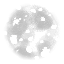
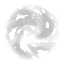
DrawStreetLayer() ritar nu ut i -nya- lagret streetctx. Jag twirlade den ena snöpuffen på skoj, ser ok ut tror jag. :)

diff --git a/carstorm.js b/carstorm.js
@@ -28,8 +28,9 @@ var textScale;
 var screenSaverPaused = false;
 
 // Canvas 2d surface, for drawing on.
-var ctx = null;
-var topctx = null;
+var ctx = null;       // The rotating sliding towards the screen snowstorm.
+var streetctx = null; // The street and car shadows, also sliding along but not rotating.
+var topctx = null;    // Score, cars and stuff.
 
 var r=0;
 var g=0;
@@ -193,21 +194,24 @@ function init()
     
   // Fetch the html element with the id 'canvas'. This is where we will do all drawing.
   var c = document.getElementById("canvas");
-  var c2 = document.getElementById("top_canvas");
-  
-  // Setting willReadFrequently to true might increase speed as we are reading the entire image and redrawing it every frame.
-  // https://stackoverflow.com/questions/74101155/chrome-warning-willreadfrequently-attribute-set-to-true
-  ctx = c.getContext("2d", { willReadFrequently: true });
-  topctx = c2.getContext("2d", { willReadFrequently: true });
+  var sc = document.getElementById("street_canvas");
+  var tc = document.getElementById("top_canvas");
   
   // Not sure it makes a difference right here, but scaling up gets pixelated, not softened. 
   c.style.imageRendering = "pixelated";
-  c2.style.imageRendering = "pixelated";
+  sc.style.imageRendering = "pixelated";
+  tc.style.imageRendering = "pixelated";
   hiddenCanvas.style.imageRendering = "pixelated";
   
   // A winterstorm background should be almost white, not green. :)
   c.style.backgroundColor = "#eee";
   
+  // Setting willReadFrequently to true might increase speed as we are reading the entire image and redrawing it every frame.
+  // https://stackoverflow.com/questions/74101155/chrome-warning-willreadfrequently-attribute-set-to-true
+  ctx = c.getContext("2d", { willReadFrequently: true });
+  streetctx = sc.getContext("2d", { willReadFrequently: true });
+  topctx = tc.getContext("2d", { willReadFrequently: true });
+    
   explosionAnim[0] = Explosion1Image;
   explosionAnim[1] = Explosion2Image;
   explosionAnim[2] = Explosion3Image;
@@ -367,6 +371,10 @@ function Resize()
   var cs = document.getElementById('canvas');
   cs.height = ScreenHeight;
   cs.width = ScreenWidth;
+
+  var streetcs = document.getElementById('street_canvas');
+  streetcs.height = ScreenHeight;
+  streetcs.width = ScreenWidth;
   
   var topcs = document.getElementById('top_canvas');
   topcs.height = ScreenHeight;
@@ -1023,6 +1031,7 @@ function GameLoopIntroPlay()
     UpdateTimers();
         
     DrawSnowstorm();
+    DrawStreetLayer();
     
     // The cars and text are drawn here so they don't get smeared.
     topctx.clearRect(0,0,ScreenWidth,ScreenHeight);
@@ -1076,6 +1085,7 @@ function GameLoopCrashed()
     }
     
     DrawSnowstorm();
+    DrawStreetLayer();
     
     // The cars and text are drawn here so they don't get smeared.
     topctx.clearRect(0,0,ScreenWidth,ScreenHeight);
@@ -1120,16 +1130,17 @@ function GameLoopPlaying()
     CheckElapsedCarsTime(true);
     CheckLivesBlinkTimer();
 
-    DrawSnowstorm();
-
-    // The cars and text are drawn here so they don't get smeared.
+    // The cars and text are drawn at streetctx or topctx so they don't get smeared.
     topctx.clearRect(0,0,ScreenWidth,ScreenHeight);
     DrawStreetLights();
     DrawAllCars(false);
     DrawPlayerCar(true);
     DrawPlayerLives();
     DrawPlayerScore();
-    
+
+    DrawSnowstorm();
+    DrawStreetLayer();
+
     touchMessageFontSize = 6 * textScale;
     
     if (messageTimer > 0 && messageTimer%600 < 300)
@@ -1178,7 +1189,8 @@ function GameLoopGameOver()
     CheckExplosionAnimTimer();
 
     DrawSnowstorm();
-
+    DrawStreetLayer();
+    
     // The cars and text are drawn here so they don't get smeared.
     topctx.clearRect(0,0,ScreenWidth,ScreenHeight);
     DrawStreetLights();
@@ -1216,6 +1228,7 @@ function GameLoopWinGame()
     CheckLivesBlinkTimer();
       
     DrawSnowstorm();
+    DrawStreetLayer();
 
     // The cars and text are drawn here so they don't get smeared.
     topctx.clearRect(0,0,ScreenWidth,ScreenHeight);
@@ -1481,7 +1494,7 @@ function DrawAllCars(onlyTheShadows)
 
         if (onlyTheShadows == true && yPos == 0)
         {
-          ctx.drawImage(EnemyCarShadowImage, 
+          streetctx.drawImage(EnemyCarShadowImage, 
             xPos + x * ((roadWidth / roadWidthDivide) + (roadWidth * roadWidthMultiply) * rowPercentages[y]), // as in 3 lanes. 
             (ScreenHeight / 2) + lightHeight -lightHeight/8 + yPos, 
             carWidth + (carWidth * 4.2 * rowPercentages[y]), 
@@ -1528,21 +1541,21 @@ function DrawStreetLights()
 {
   if (streetLightTimer >= gamespeedMS)
   {
-    ctx.fillStyle = "rgba(255,100,0,1)";
-    ctx.beginPath();
-    ctx.arc((ScreenWidth / 2) - lightWidth, (ScreenHeight / 2) + lightHeight, orangeLightSize, 0, 2 * Math.PI);
-    ctx.fill();
-    ctx.beginPath();
-    ctx.arc((ScreenWidth / 2) + lightWidth, (ScreenHeight / 2) + lightHeight, orangeLightSize, 0, 2 * Math.PI);
-    ctx.fill();
+    streetctx.fillStyle = "rgba(255,100,0,1)";
+    streetctx.beginPath();
+    streetctx.arc((ScreenWidth / 2) - lightWidth, (ScreenHeight / 2) + lightHeight, orangeLightSize, 0, 2 * Math.PI);
+    streetctx.fill();
+    streetctx.beginPath();
+    streetctx.arc((ScreenWidth / 2) + lightWidth, (ScreenHeight / 2) + lightHeight, orangeLightSize, 0, 2 * Math.PI);
+    streetctx.fill();
     
-    ctx.fillStyle = "yellow";
-    ctx.beginPath();
-    ctx.arc((ScreenWidth / 2) - lightWidth, (ScreenHeight / 2) + lightHeight, yellowLightSize, 0, 2 * Math.PI);
-    ctx.fill();
-    ctx.beginPath();
-    ctx.arc((ScreenWidth / 2) + lightWidth, (ScreenHeight / 2) + lightHeight, yellowLightSize, 0, 2 * Math.PI);
-    ctx.fill();
+    streetctx.fillStyle = "yellow";
+    streetctx.beginPath();
+    streetctx.arc((ScreenWidth / 2) - lightWidth, (ScreenHeight / 2) + lightHeight, yellowLightSize, 0, 2 * Math.PI);
+    streetctx.fill();
+    streetctx.beginPath();
+    streetctx.arc((ScreenWidth / 2) + lightWidth, (ScreenHeight / 2) + lightHeight, yellowLightSize, 0, 2 * Math.PI);
+    streetctx.fill();
     
     streetLightTimer = 0;
   }
@@ -1564,9 +1577,9 @@ function DrawPlayerCar(isNotPaused)
     topctx.drawImage(PlayerCarImage, player.Xposition, player.Yposition, player.Xsize, player.Ysize);
     if (isNotPaused)
     {
-      ctx.globalAlpha = 0.24;
-      ctx.drawImage(PlayerCarShadowImage, player.Xposition - player.Xposition/35, player.Yposition + player.Yposition/8, player.Xsize * 1.12, player.Ysize - player.Ysize/2);
-      ctx.globalAlpha = 1;
+      streetctx.globalAlpha = 0.24;
+      streetctx.drawImage(PlayerCarShadowImage, player.Xposition - player.Xposition/35, player.Yposition + player.Yposition/8, player.Xsize * 1.12, player.Ysize - player.Ysize/2);
+      streetctx.globalAlpha = 1;
     }
   }
   
@@ -1601,9 +1614,9 @@ function DrawPlayerCar(isNotPaused)
         var rendAlfa = 0.35 + randomizeNumber(4)/10;
         
         // if (isNotPaused)
-        ctx.globalAlpha = rendAlfa;
-        ctx.drawImage(smokeImage, player.Xposition - ScreenWidth/randXpos, player.Yposition - ScreenWidth/randYpos, player.Xsize * 1.32, player.Ysize * 1.3);
-        ctx.globalAlpha = 1;
+        streetctx.globalAlpha = rendAlfa;
+        streetctx.drawImage(smokeImage, player.Xposition - ScreenWidth/randXpos, player.Yposition - ScreenWidth/randYpos, player.Xsize * 1.32, player.Ysize * 1.3);
+        streetctx.globalAlpha = 1;
       }
     }
   }
@@ -1633,7 +1646,7 @@ function DrawPlayerScore()
   topctx.fillText(player.Score, ScreenWidth - ScreenWidth/5, ScreenHeight/6.5);
 }
 
-var rotationSpeed = 0.5;
+var rotationSpeed = 0.6;
 
 function DrawSnowstorm()
 {
@@ -1658,9 +1671,9 @@ function DrawSnowstorm()
   
   // Rotating the storm eliminates the 8 artifact rays coming from the zoom in.
   // However, the lights and car shadows will rotate too... So we need ANOTHER canvas AND another hidden canvas (I assume) to let those scale normally.
-  // ctx.translate(ScreenWidth / 2, ScreenHeight / 2);
-  // ctx.rotate(rotationSpeed * Math.PI / 180);
-  // ctx.translate(-ScreenWidth / 2, -ScreenHeight / 2);
+  ctx.translate(ScreenWidth / 2, ScreenHeight / 2);
+  ctx.rotate(rotationSpeed * Math.PI / 180);
+  ctx.translate(-ScreenWidth / 2, -ScreenHeight / 2);
   
   // Stretch out the copied (smaller) image over the entire canvas.
   // Note! We are drawing the _canvas_ object, not its 2d context. 
@@ -1711,4 +1724,33 @@ function DrawSnowstorm()
   }
   
   ctx.globalAlpha = 1;
+}
+
+function DrawStreetLayer()
+{
+  // Copy the entire ctx image.
+  var imgData = streetctx.getImageData(0, 0, ScreenWidth, ScreenHeight);
+  
+  // Draw it here meanwhile.
+  hiddenCtx.putImageData(imgData, 0, 0);
+  
+  // Empty! We don't want any smearing, just the zooming.
+  streetctx.clearRect(0,0,ScreenWidth,ScreenHeight);
+  
+  streetctx.save();
+  {
+    var speed = 0.0106 * gamespeed;//0.01;  // Zoom-in speed.
+    var xSide = ScreenWidth * speed;
+    var ySide = ScreenHeight * speed;
+      
+    // Copy a somewhat smaller rectangle from the center of the image,
+    // draw it stretched to fill the entire ctx.
+    // (This is all the zoom-magic)
+    // Note! We are drawing the _canvas_ object, not its 2d context. 
+    streetctx.drawImage(
+      hiddenCanvas, 
+      xSide, ySide, ScreenWidth - xSide * 2, ScreenHeight - ySide * 2, 
+      0, 0, ScreenWidth, ScreenHeight);
+  }
+  streetctx.restore();
 }

diff --git a/index.html b/index.html
@@ -18,13 +18,7 @@
       
     touch-action: pan-x pan-y;
   }
-  #canvas
-  {
-    position:absolute;
-    top:0px;
-    left:0px;
-  }
-  #top_canvas
+  #canvas, #street_canvas, #top_canvas
   {
     position:absolute;
     top:0px;
@@ -32,9 +26,8 @@
   }
 </style>
 <body onLoad="init();">
-	<canvas id="canvas">
-	</canvas>
-  <canvas id="top_canvas">
-	</canvas>
+	<canvas id="canvas"></canvas>
+  <canvas id="street_canvas"></canvas>
+  <canvas id="top_canvas"></canvas>
 </body>
 </html>
